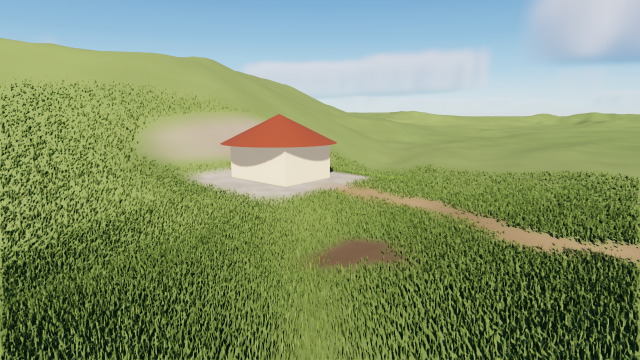
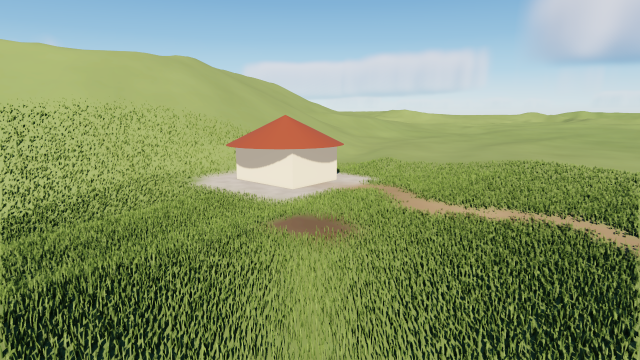
[G19.1] terrain-edits scene: site the plinth at the hill's foot (Visual QA) [skip ci]
The pale patch behind the cottage was the cut bank of the flatten stamp:
the terrain's own rock shading on ground steeper than the grass slope
limit, softened by depth of field. A level pad cut deep into a 27-degree
slope always leaves such a bank, so the plinth moves 8 m west to where
the cut is shallow; the guide explains cut banks.

Claude-Session: https://claude.ai/code/session_012i2vySKdwJq6HcKNcQaXMn

diff --git a/docs/terrain-edits.md b/docs/terrain-edits.md
@@ -9,10 +9,9 @@ stream in and out, regenerate on the GPU, or the terrain moves.
 ![Terrain edits](screenshots/terrain-edits.png)
 
 *`assets/scenes/terrain_edits.json` (CI scene `terrain-edits`): a plinth
-flattened into the foot of a hillside, a gravel apron, a garden soil patch
-and a dirt path with its grass cleared and its ground smoothed. Grass thins
-on the embankment (the slope fade) and regrows on the levelled, unmasked
-ring around the apron.*
+flattened at the foot of a hillside, a gravel apron, a garden soil patch and
+a dirt path with its grass cleared and its ground smoothed. Grass regrows on
+the levelled, unmasked ring around the apron.*
 
 ## Stamps
 
@@ -56,6 +55,11 @@ Recipes (the cozy builder's, [`design/cozy-builder.md`](design/cozy-builder.md))
   `falloff` 2–8 m (a wider falloff gives a gentler, grassed embankment), at
   the median ground height under it; then `paint gravel` and `paint grass 0`
   slightly wider than the footprint.
+  Cutting a level pad deep into a slope leaves a cut bank steeper than the
+  slope itself, whatever the falloff (the cut deepens as the falloff
+  widens): past the grass layer's slope limit it shows the terrain's bare
+  rock shading. Site foundations where the cut stays shallow, or dress the
+  bank (a retaining wall, a `smooth` and a `paint soil` stamp).
 - **Path**: a `capsule` along the stroke: `paint dirt`, `paint grass 0`, and a
   light `smooth` (strength 0.5–0.8, 1–2 iterations).
 
